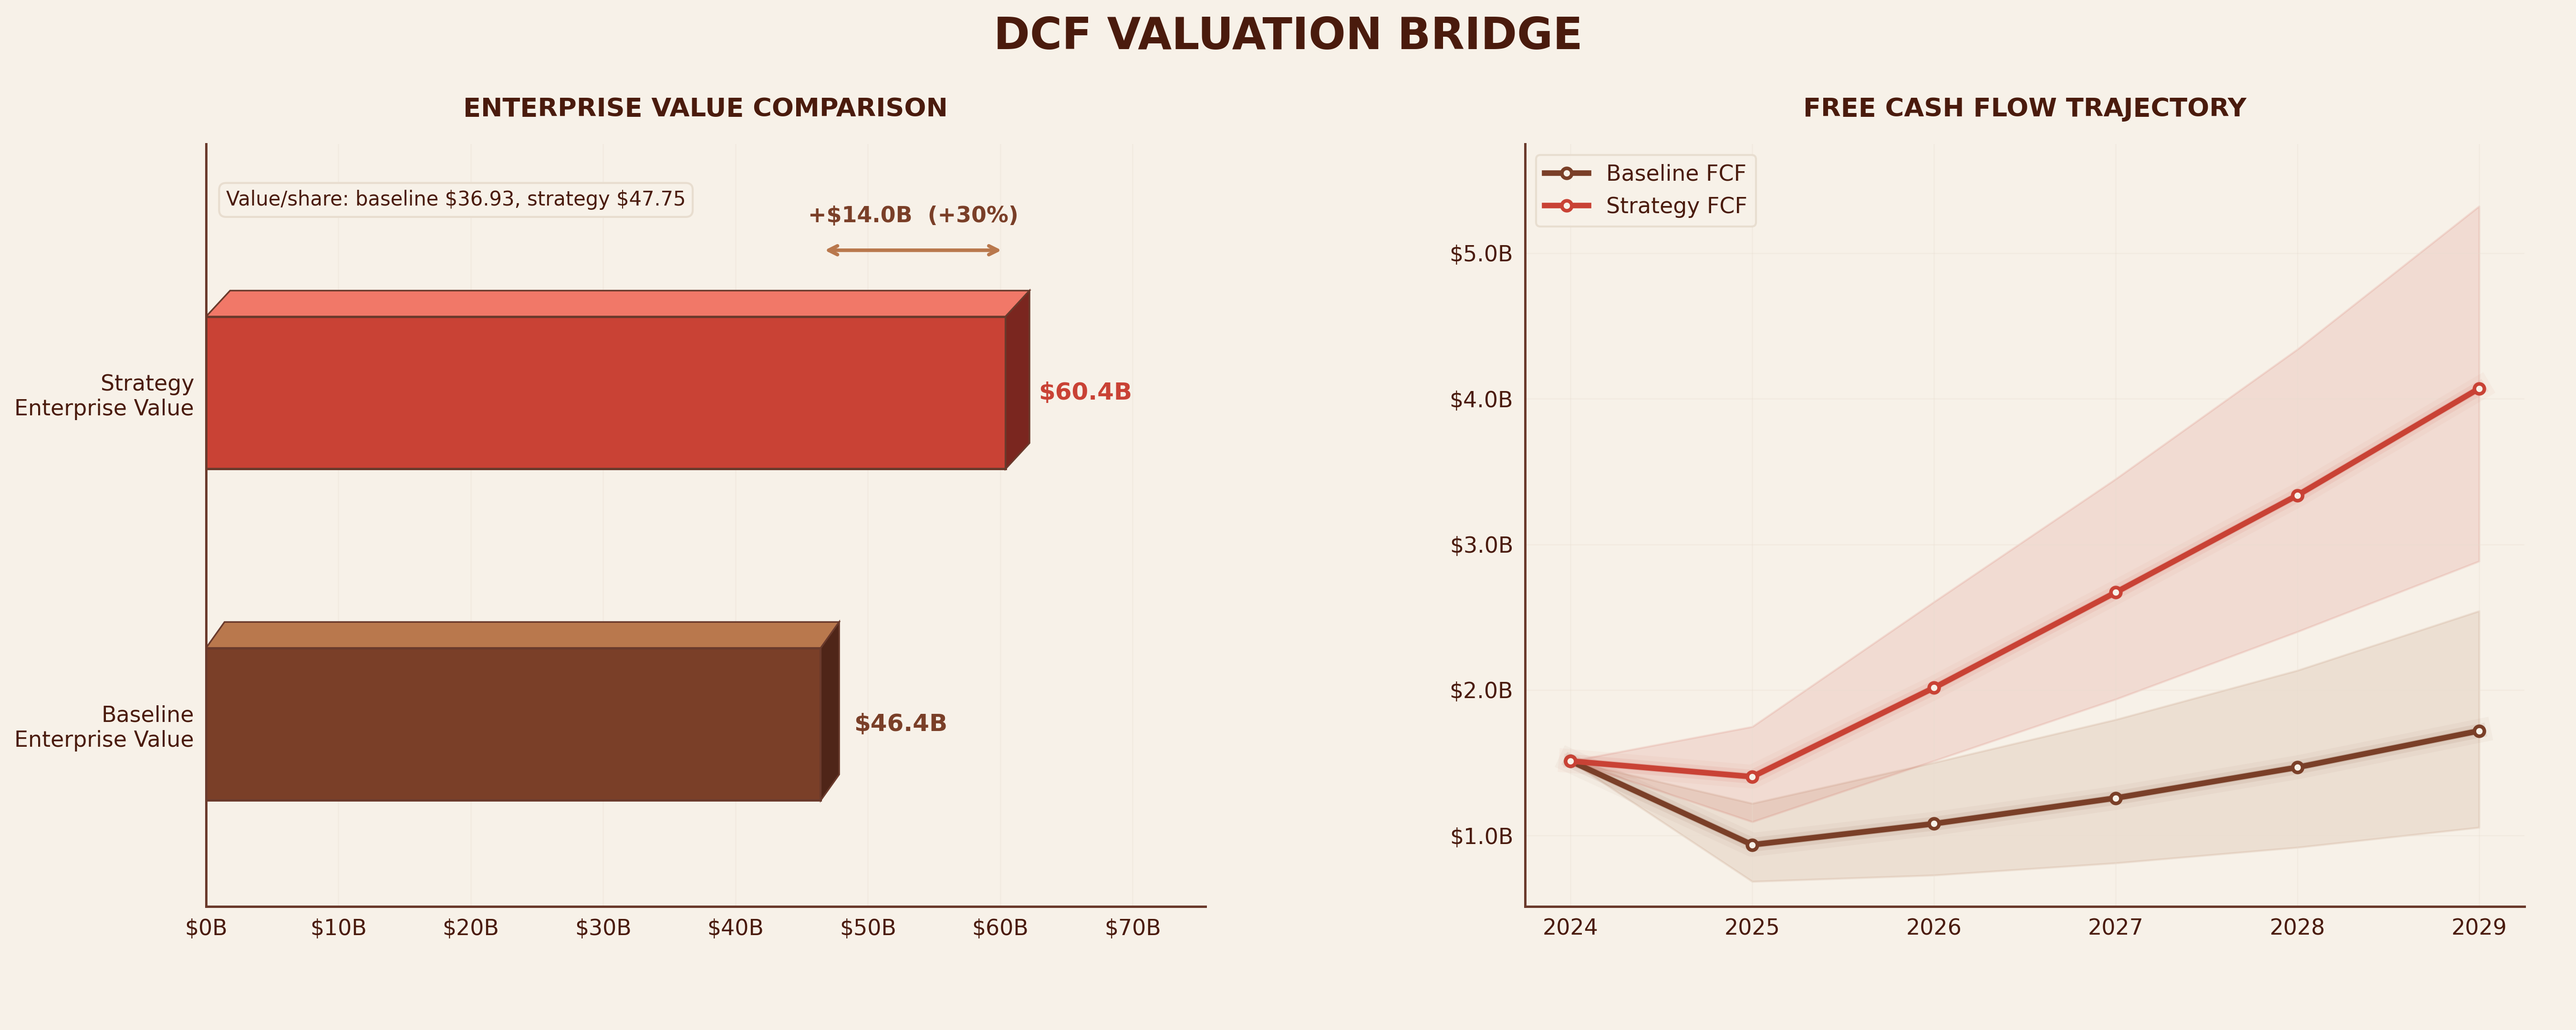
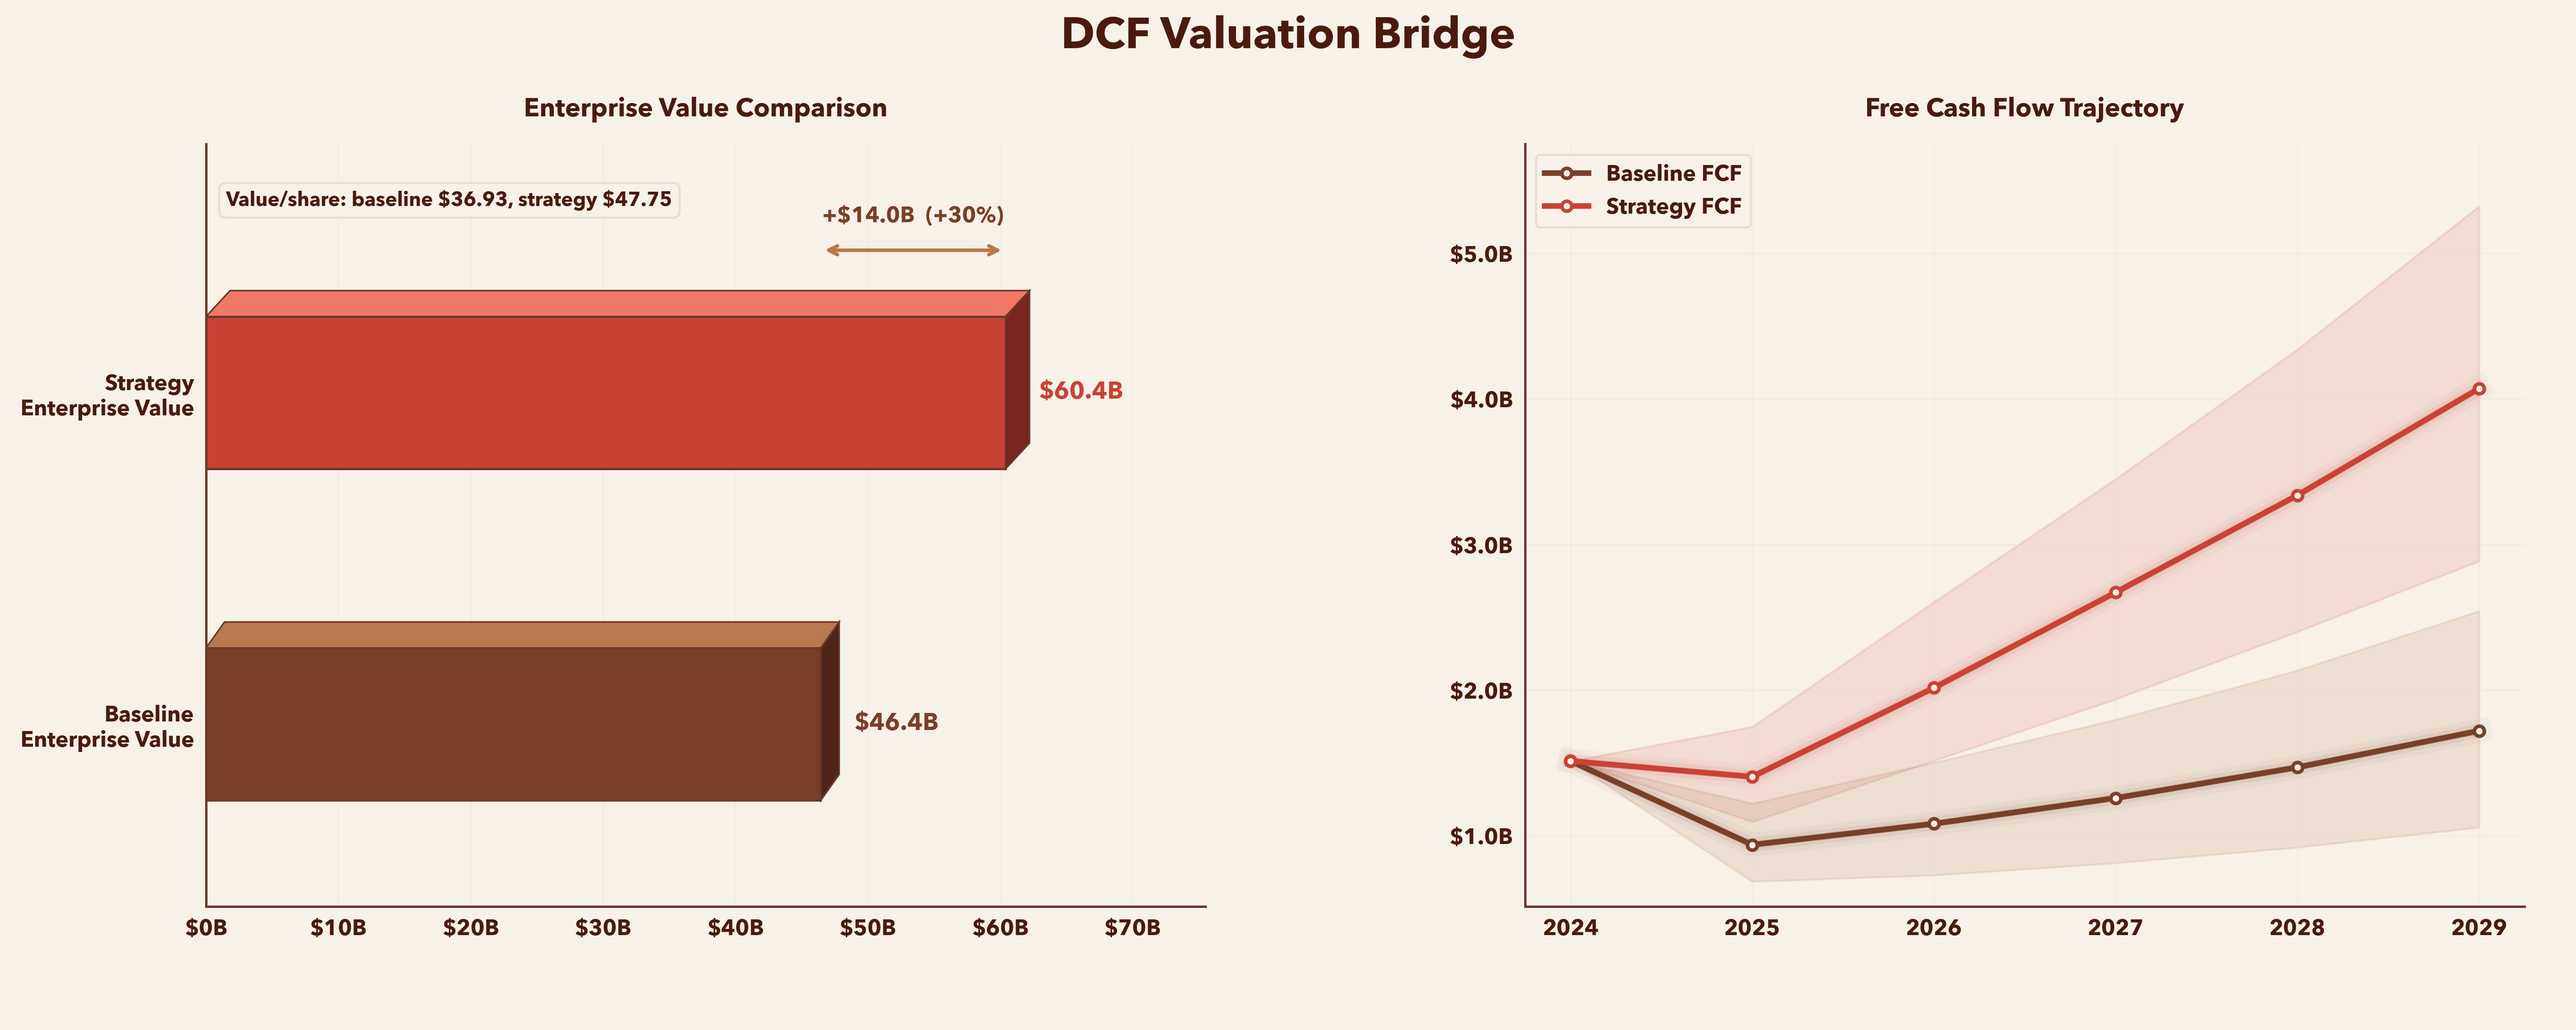
Refine chart typography and styling

diff --git a/main.py b/main.py
@@ -85,10 +85,18 @@ BASELINE_FILL = "#A86642"
 PANEL = "#F0E7DA"
 GREEN = "#3F6F37"
 ORANGE = "#D86A32"
+FONT_FAMILY = [
+    "Avenir Next",
+    "Avenir",
+    "Helvetica Neue",
+    "Helvetica",
+    "Arial",
+    "sans-serif",
+]
 
 plt.rcParams.update(
     {
-        "font.family": "DejaVu Sans",
+        "font.family": FONT_FAMILY,
         "figure.facecolor": BG,
         "axes.facecolor": BG,
         "axes.edgecolor": BROWN,
@@ -99,13 +107,14 @@ plt.rcParams.update(
         "ytick.color": BROWN,
         "axes.spines.top": False,
         "axes.spines.right": False,
-        "axes.titleweight": "bold",
+        "axes.titleweight": "semibold",
         "axes.titlesize": 15,
         "axes.labelsize": 11,
         "grid.color": GRID,
         "grid.alpha": 0.38,
         "grid.linewidth": 0.65,
         "font.size": 11,
+        "font.weight": "regular",
         "legend.facecolor": BG,
         "legend.edgecolor": GRID,
         "legend.framealpha": 0.95,
@@ -339,7 +348,7 @@ def add_value_label(ax, x, y, text, color, xytext=(0, 14), ha="center"):
         ha=ha,
         va="bottom",
         fontsize=10,
-        fontweight="bold",
+        fontweight="semibold",
         color=color,
         bbox={"facecolor": BG, "edgecolor": GRID, "boxstyle": "round,pad=0.3"},
     )
@@ -437,7 +446,7 @@ def save_revenue_graph(base_rev, strat_rev):
         f"+${uplift:.1f}B revenue uplift",
         transform=ax.transAxes,
         fontsize=12,
-        fontweight="bold",
+        fontweight="semibold",
         color=RED,
         bbox={
             "facecolor": "#FFF9EF",
@@ -453,7 +462,7 @@ def save_revenue_graph(base_rev, strat_rev):
     ax.set_ylabel("Revenue")
     ax.set_ylim(0, max(strat_p90) * 1.12)
     ax.legend(ncol=2, loc="upper left")
-    fig.suptitle("MONTE CARLO SIMULATION  |  10,000 RUNS", fontsize=18, fontweight="bold", color=BROWN, y=0.98)
+    fig.suptitle("Monte Carlo Simulation  |  10,000 Runs", fontsize=18, fontweight="semibold", color=BROWN, y=0.98)
     fig.tight_layout()
     fig.savefig("revenue_paths.png", dpi=300)
     plt.close(fig)
@@ -539,7 +548,7 @@ def save_profit_graph(base_op, strat_op):
         ha="center",
         va="center",
         fontsize=11,
-        fontweight="bold",
+        fontweight="semibold",
         color=BASELINE,
         bbox={
             "facecolor": BG,
@@ -555,7 +564,7 @@ def save_profit_graph(base_op, strat_op):
         ha="center",
         va="center",
         fontsize=11,
-        fontweight="bold",
+        fontweight="semibold",
         color=RED,
         bbox={
             "facecolor": BG,
@@ -580,10 +589,10 @@ def save_profit_graph(base_op, strat_op):
         ha="right",
         va="top",
         fontsize=12,
-        fontweight="bold",
+        fontweight="semibold",
         color=BROWN,
         linespacing=1.55,
-        family="DejaVu Sans Mono",
+        family=FONT_FAMILY[0],
         bbox={
             "facecolor": "#FFF9EF",
             "edgecolor": GRID,
@@ -599,9 +608,9 @@ def save_profit_graph(base_op, strat_op):
     ax.set_ylim(0, y_top)
     ax.set_xlim(min(base_y5.min(), strat_y5.min()) - 0.25, max(base_y5.max(), strat_y5.max()) + 0.40)
     fig.suptitle(
-        "PROFIT DISTRIBUTION  |  BASELINE VS STRATEGY",
+        "Profit Distribution  |  Baseline vs Strategy",
         fontsize=20,
-        fontweight="bold",
+        fontweight="semibold",
         color=BROWN,
         y=0.982,
     )
@@ -612,7 +621,7 @@ def save_profit_graph(base_op, strat_op):
 
 def save_ev_graph(base_ev, strat_ev, base_price, strat_price, base_fcf, strat_fcf):
     fig, axes = plt.subplots(1, 2, figsize=(18, 7.2), gridspec_kw={"wspace": 0.32})
-    fig.suptitle("DCF VALUATION BRIDGE", fontsize=22, fontweight="bold", color=BROWN, y=0.985)
+    fig.suptitle("DCF Valuation Bridge", fontsize=22, fontweight="semibold", color=BROWN, y=0.985)
 
     ax = axes[0]
     setup_axis(ax)
@@ -622,8 +631,8 @@ def save_ev_graph(base_ev, strat_ev, base_price, strat_price, base_fcf, strat_fc
     draw_3d_barh(ax, y_positions[0], values[0], bar_h, BASELINE, "#4F2518", BASELINE_LIGHT, EDGE)
     draw_3d_barh(ax, y_positions[1], values[1], bar_h, RED, "#7A261F", RED_LIGHT, EDGE)
 
-    ax.text(values[0] + 2.5, y_positions[0], f"${values[0]:.1f}B", va="center", color=BASELINE, fontweight="bold", fontsize=12)
-    ax.text(values[1] + 2.5, y_positions[1], f"${values[1]:.1f}B", va="center", color=RED, fontweight="bold", fontsize=12)
+    ax.text(values[0] + 2.5, y_positions[0], f"${values[0]:.1f}B", va="center", color=BASELINE, fontweight="semibold", fontsize=12)
+    ax.text(values[1] + 2.5, y_positions[1], f"${values[1]:.1f}B", va="center", color=RED, fontweight="semibold", fontsize=12)
 
     uplift = values[1] - values[0]
     uplift_pct = pct_change(values[1], values[0])
@@ -641,7 +650,7 @@ def save_ev_graph(base_ev, strat_ev, base_price, strat_price, base_fcf, strat_fc
         ha="center",
         va="bottom",
         color=BASELINE,
-        fontweight="bold",
+        fontweight="semibold",
         fontsize=11,
     )
     ax.text(
@@ -658,7 +667,7 @@ def save_ev_graph(base_ev, strat_ev, base_price, strat_price, base_fcf, strat_fc
     ax.set_xlim(0, max(values) * 1.25)
     ax.set_ylim(-0.55, 1.75)
     ax.xaxis.set_major_formatter(mtick.FuncFormatter(lambda val, _: f"${val:.0f}B"))
-    ax.set_title("ENTERPRISE VALUE COMPARISON", fontsize=13, pad=14)
+    ax.set_title("Enterprise Value Comparison", fontsize=13, pad=14)
     ax.grid(True, axis="x", color=GRID, alpha=0.30, linewidth=0.6)
     ax.grid(False, axis="y")
 
@@ -679,7 +688,7 @@ def save_ev_graph(base_ev, strat_ev, base_price, strat_price, base_fcf, strat_fc
     glow_line(ax, x, fcf_s_med, RED, "Strategy FCF")
     ax.set_xticks(x, labels)
     ax.yaxis.set_major_formatter(mtick.FuncFormatter(lambda val, _: f"${val:.1f}B"))
-    ax.set_title("FREE CASH FLOW TRAJECTORY", fontsize=13, pad=14)
+    ax.set_title("Free Cash Flow Trajectory", fontsize=13, pad=14)
     ax.legend(loc="upper left")
     ax.set_ylim(max(0, min(fcf_b_p10.min(), fcf_s_p10.min()) * 0.75), max(fcf_s_p90) * 1.08)
     ax.grid(True, color=GRID, alpha=0.30, linewidth=0.6)
@@ -694,7 +703,7 @@ def save_summary_graph(base, strat, base_ev, strat_ev):
     strat_rev, strat_op, _, strat_fcf = strat
 
     fig, axes = plt.subplots(2, 2, figsize=(18, 12))
-    fig.suptitle("CHIPOTLE MONTE CARLO + DCF RESULTS", fontsize=22, fontweight="bold", color=BROWN, y=0.992)
+    fig.suptitle("Chipotle Monte Carlo + DCF Results", fontsize=22, fontweight="semibold", color=BROWN, y=0.992)
     fig.text(
         0.5,
         0.948,
@@ -752,7 +761,7 @@ def save_summary_graph(base, strat, base_ev, strat_ev):
                 ha="center",
                 va="bottom",
                 fontsize=9,
-                fontweight="bold",
+                fontweight="semibold",
                 color=BROWN,
             )
     ax.set_xticks(x, metrics)
@@ -779,7 +788,7 @@ def save_summary_graph(base, strat, base_ev, strat_ev):
         )
         bottoms += values
     for year, total in zip(YEARS, bottoms):
-        ax.text(year, total + max(bottoms) * 0.035, f"${total:.1f}B", ha="center", fontweight="bold", fontsize=10)
+        ax.text(year, total + max(bottoms) * 0.035, f"${total:.1f}B", ha="center", fontweight="semibold", fontsize=10)
     ax.set_title("Revenue Uplift Attribution")
     ax.yaxis.set_major_formatter(mtick.FuncFormatter(lambda val, _: f"${val:.1f}B"))
     ax.grid(True, axis="y")
@@ -799,7 +808,7 @@ def save_summary_graph(base, strat, base_ev, strat_ev):
         f"{(profit_advantage > 0).mean():.1%} chance strategy profit beats baseline",
         transform=ax.transAxes,
         fontsize=11,
-        fontweight="bold",
+        fontweight="semibold",
         color=RED,
         bbox={"facecolor": BG, "edgecolor": GRID, "boxstyle": "round,pad=0.4"},
     )
@@ -833,11 +842,11 @@ def save_summary_graph(base, strat, base_ev, strat_ev):
         cell.set_edgecolor(GRID)
         if row == 0:
             cell.set_facecolor(BROWN)
-            cell.set_text_props(color="white", fontweight="bold")
+            cell.set_text_props(color="white", fontweight="semibold")
         else:
             cell.set_facecolor(BG)
-            cell.set_text_props(color=BROWN, fontweight="bold" if col == 1 else "normal")
-    ax.set_title("Final Effects", fontweight="bold")
+            cell.set_text_props(color=BROWN, fontweight="semibold" if col == 1 else "normal")
+    ax.set_title("Final Effects", fontweight="semibold")
 
     fig.tight_layout(rect=[0, 0, 1, 0.92])
     fig.savefig("final_results_summary.png", dpi=300)
